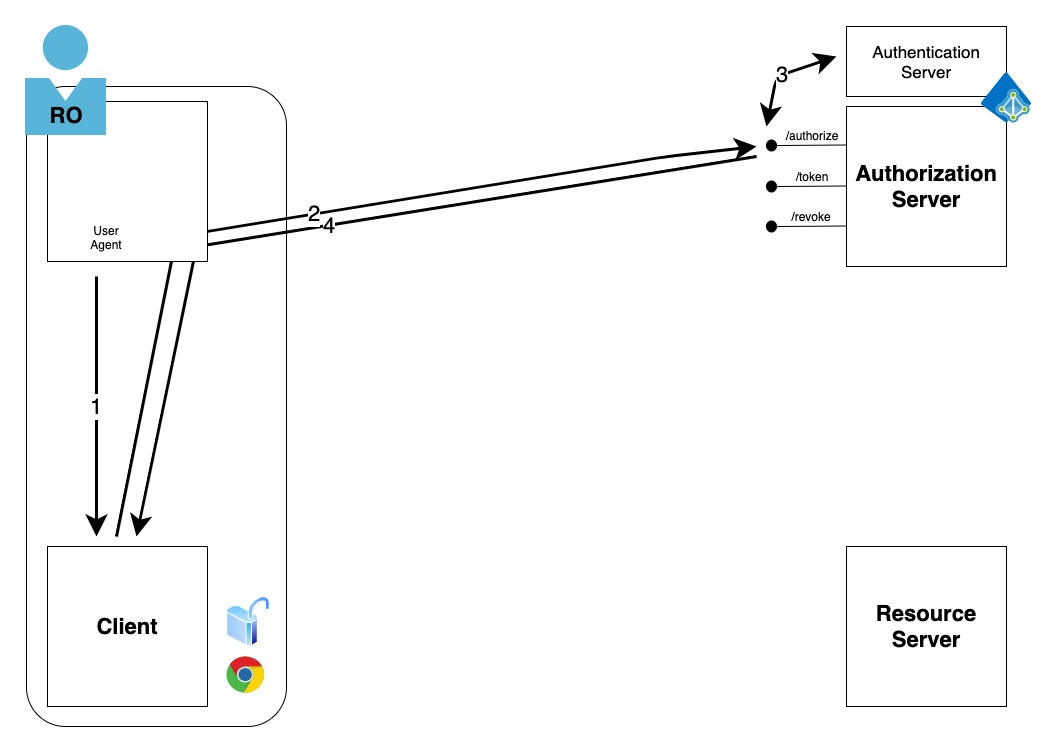
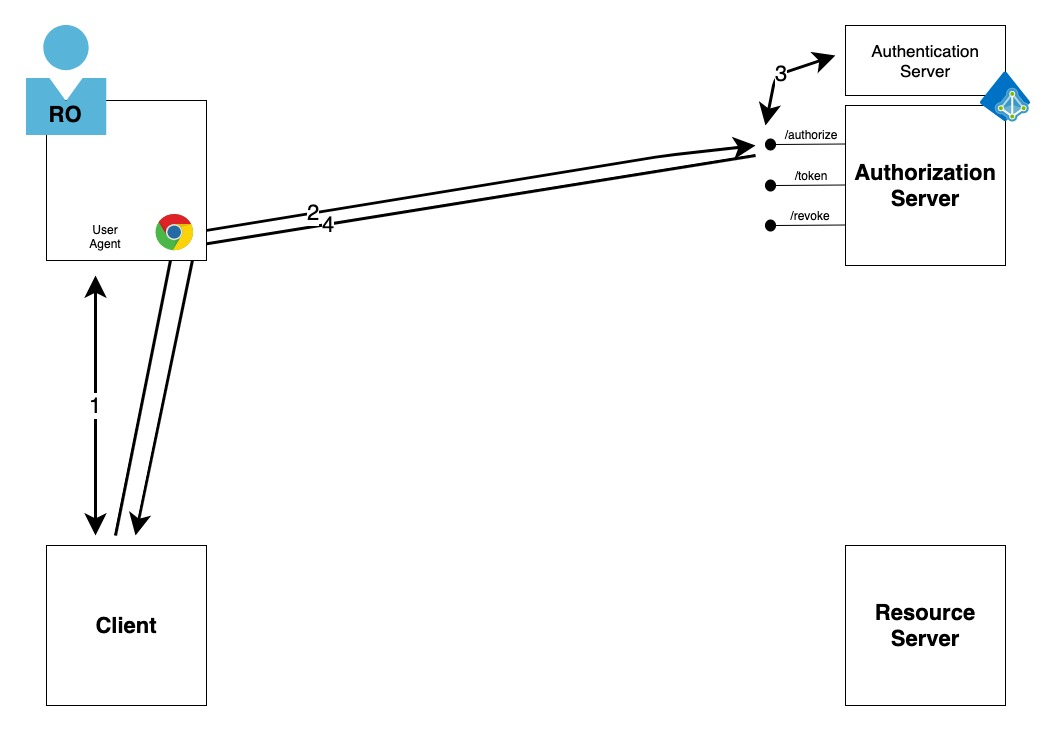
Various updates after testrun 1

diff --git a/docs/index.html b/docs/index.html
@@ -62,7 +62,7 @@
 
 					<section>
 						<h3>Workshop objectives </h3>
-						<blockquote>De-mystify, build confidence and prepare for further exploration of A&A</blockquote>
+						<blockquote style="color:dodgerblue">De-mystify, build confidence and prepare for further exploration of A&A</blockquote>
 						<ul style="font-size: 80%;">
 							<li>Give an introduction to basics modern web A&A</li>
 							<li>Introduce protocols, grants & flows</li>
@@ -151,7 +151,7 @@
 							</small>
 						</section>
 						<section>
-							<h3>Run-time environments - known differences</h3>
+							<h3>Run-time environments -</br> known differences</h3>
 							<ul>
 								<li>Examples uses Unix path notation "./src". </br>In Windows this will be "src/</li>
 								<li>Scripts, like <span style="color: blue">npm start</span> uses Linux notation. Must be changed for Windows environments</li>
@@ -167,14 +167,17 @@
 			
 			<section>
 				<h1>The delegation problem</h1>
+				<small style="color:blue">Giving access to 3rd parties</small>
 			</section>
 
 			<section>
 				<h3>Old style A&A</h3>
+				<small>Impersonating</small><p></p>
 				<img src="./graphics/export/my_super_app_old.jpg" width="75%">
 			</section>
 			<section>
 				<h3>Old style A&A</h3>
+				<small>Impersonating</small>
 				<table>
 					<tr>
 						<td><img src="./graphics/export/my_super_app_old.jpg" ></td>
@@ -193,6 +196,7 @@
 
 			<section>
 				<h3>New Style A&A</h3>
+				<small>Delegating</small><p></p>
 				<img src="./graphics/export/my_super_app_new.jpg" width="75%">
 			</section>
 			<section>
@@ -206,7 +210,7 @@
 								<li>Access can be revoked</li>
 								<li>Access can be time limited</li>
 								<li>Access can be granular</li>
-								<li>Access is delegated from user to client</li>
+								<li>Access is delegated from resource owner to client</li>
 							</ul>
 						</td>
 					</tr>
@@ -229,8 +233,12 @@
 					</section>
 					<section>
 						<h3>oAuth2</h3>
-						<blockquote style="font-size: 80%">
-						The OAuth 2.0 authorization framework enables a third-party application to obtain limited access to an HTTP service, either on behalf of a resource owner by orchestrating an approval interaction between the resource owner and the HTTP service, or by allowing the third-party application to obtain access on its own behalf. </blockquote>
+						<blockquote style="font-size: 75%">
+						The OAuth 2.0 authorization framework enables a
+						</br> third-party application to obtain limited access to an HTTP service,
+						</br></br>either on behalf of a resource owner
+						</br>by orchestrating an approval interaction between the resource owner and the HTTP service
+						</br></br>or by allowing the third-party application to obtain access on its own behalf.</blockquote>
 						<small><a href="https://tools.ietf.org/html/rfc6749" target="_blank">oAuth2</a> is a <strong>delegation protocol</strong>, a means of giving someone who controls a resource the capability to delegate access to the resource on their behalf (without impersonating).</small>
 					</section>
 
@@ -248,7 +256,7 @@
 					</section>
 
 					<section style="font-size: 75%">
-						<h3>Actors</h3>
+						<h3>oAuth2 Roles/Actors</h3>
 						<p><div style="color:blue">resource owner</div>
 						An entity capable of granting access to a protected resource.
 						When the resource owner is a person, it is referred to as an
@@ -276,7 +284,7 @@
 					</section>
 					<section>
 						<h4><a href="https://tools.ietf.org/html/rfc6749#section-1.2"
-							target="_blank">Abstract protocol flow</a></h4>
+							target="_blank">Abstract protocol flow (rfc6749)</a></h4>
 						<pre>
 +--------+                               +---------------+
 |        |--(A)- Authorization Request ->|   Resource    |
@@ -302,8 +310,8 @@
 						<h4 style="text-align: left;">Abstract protocol flow</h4>
 						<pre style="font-size: 40%; text-align: left;">
 +-- <span style="color:red">Resource</span> --+ +-- <span style="color: blue;">Client</span> -- + +- <span style="color:bluegreen">Authorization</span> -+ +--<span style="color:violet"> Resource</span> --+
-+    Owner     + +             + +     Server      + +   Server    +
-+--------------+ +-------------+ +-----------------+ +---------------+
++    Owner     + +             + +     Server      + +   Server     +
++--------------+ +-------------+ +-----------------+ +--------------+
      -                   -                -                     -
      |  <span style="color:blue">(A)Client request</span>|                |                     |
      |      <span style="color:blue">Authorization</span>|                |                     |
@@ -338,9 +346,9 @@
 					</section>
 
 					<section>
-						<h3>What oAuth is and is not</h3>
+						<h2>A few nice-to-know What oAuth is and is not</h2>
 						<ul>
-							<li>Is not Defined outside HTTP</li>
+							<li>Is not defined outside HTTP</li>
 							<li>Is "requiring" TLS</li>
 							<li>Is not an authentication protocol</li>
 							<li>Is not processing authorization</li>
@@ -352,13 +360,14 @@
 					</section>
 
 					<section>
-						<h3>Obtaining authorization - the oauth Dance</h3>
-						<blockquote> To request an access token, the client obtains authorization from the resource owner.  The authorization is expressed in the form of an authorization grant, which the client uses to request the access token.  OAuth defines four grant types: <span style="color:red">authorization code, implicit, resource owner password credentials</span>, and <span style="color:red">client credentials</span>.  It also provides an extension mechanism for defining additional grant types.</blockquote>
+						<h3>Obtaining authorization - </br>the oauth Dance</h3>
+						<blockquote>To request an access token, the client obtains authorization from the resource owner.  The authorization is expressed in the form of an authorization grant, which the client uses to request the access token.  OAuth defines four grant types: <span style="color:red">authorization code, implicit, resource owner password credentials</span>, and <span style="color:red">client credentials</span>.  It also provides an extension mechanism for defining additional grant types.</blockquote>
 				</section>
 					
 				<section>
 					<h3><a href="https://tools.ietf.org/html/rfc6749#section-4.1"
 						target="_blank">Authorization Code Grant</a></h3>
+						<small><a href="https://tools.ietf.org/html/rfc6749#section-4.1" target="_blank">rfc6749 #4.1</a></small>
 					<pre style="font-size: 40%;">
 
 +----------+
@@ -402,7 +411,7 @@
 							<td><img src="./graphics/export/oauth_code_flow.jpg" ></td>
 							<td style=" vertical-align: top;">
 								<p>-1-</p>
-								User - via user agent - initiates
+								Client via user agent - initiates
 							</td>
 						</tr>
 					</table>
@@ -418,7 +427,7 @@
 									<span style="font-size: 70%;">
 									GET /authorize? </br>
 									client_id=client </br>
-									&scope=read </br>
+									&scope=(optional) </br>
 									&reponse_type=code </br>
 									&state=1234
 									&redirect_uri=
@@ -525,7 +534,7 @@
 						<ul>
 							<li><span style="color:red">Authorization endpoint:</span> used by client to get authorization from resource owner </li>
 							<li><span style="color:red">Token endpoint:</span> used by client to exchange authorization grant for an access token</li>
-							<li>There may be more based on actual implementation</li>
+							<li>There may be other endpoints based on actual implementation</li>
 					</section>
 					
 					<section>
@@ -542,15 +551,15 @@
 							<ul>
 								<li>Token type: How it can be used</li>
 								<ul>
-									<li>Use it as is</li>
-									<li>Use it, but prove that I own it</li>
+									<li>Use it as is (Access token)</li>
+									<li>Use it, but prove that I own it </br>(Proof Of Ownership, Refresh token)</li>
 								</ul>
 								<li>Token format: Encoding</li>
 								<ul>
 									<li>By value (token contains all values)</li>
 									<li>By reference (pointer to more information)</li>
 								</ul>
-								<li>Token purpose: Who is it for?</li>
+								<li>Token purpose: Who is it for?</br>(Client, Authorisation Server, Resource Server</li>
 							</ul>
 						</section>
 	
@@ -773,9 +782,7 @@
 					"Admin"
 				],
 				"sub": "..",
-				}.[Signature]
-			
-									</code> 
+				}.[Signature]</code> 
 									</pre>	
 								</section>
 	
@@ -793,12 +800,14 @@
 											<li>aud - audience - id for relying party</li>
 											<li>exp - expiration time stamp</li>
 										</ul>
-									<li>For the Azure implementation, more documentation on the <a href"https://docs.microsoft.com/en-us/azure/active-directory/develop/v2-protocols-oidc" target="_blank">Microsoft Identity Platform</a> doc pages</li>
+									<li>For the Azure implementation, more documentation on the <a href="https://docs.microsoft.com/en-us/azure/active-directory/develop/v2-protocols-oidc" target="_blank">Microsoft Identity Platform</a> doc pages.
+									Explore attributes such as "prompt", "login_hint", "response_mode"</li>
 								</ul>
 							</section>
 		
 					<section>
 						<h4>oAuth Implicit Grant</h4>
+						<small><a href="https://tools.ietf.org/html/rfc6749#section-4.2" target="_blank">rfc6749 #4.2</a></small>
 						<pre style="font-size: 40%;">
 +----------+
 | Resource |
@@ -847,8 +856,8 @@ Client lives inside browser (user agent)
 										<span style="font-size: 70%;">
 										GET /authorize? </br>
 										client_id=client </br>
-										&scope=read</br>
-										&reponse_type=<span style="color:red">token+id_token</span></br>
+										&scope=<span style="color:red">openid</span></br>
+										&reponse_type=<span style="color:red">id_token</span>+token</br>
 										&state=1234</br>
 										&<span style="color:red">nonce=a_nonce</span></br>
 										&<span style="color:red">redirect_uri=</span></br>
@@ -903,7 +912,7 @@ Client lives inside browser (user agent)
 							<li>The process for a protected resource to query the authorization server to verify validity of a oAuth2 token</li>
 							<li>An extension to oAuth2 defined in <a href="https://tools.ietf.org/html/rfc7662"
 							target="_blank">rfc7662</a></li>
-							<li>Getting Opaque tokens (by ref) and querying for "details"</li>
+							<li>Getting tokens type by ref and querying for "details"</li>
 							<li>Not currently supported by Azure AD
 							<a href="https://feedback.azure.com/forums/169401-azure-active-directory/suggestions/18930289-introspection-endpoint-for-azure-active-directory"
 							target="_blank">(Improvement request)</a>	
@@ -918,7 +927,10 @@ Client lives inside browser (user agent)
 								Typically service to service in protected environment
 
 							</li>
-							<li>Resource Owner Password Credentials</li>
+							<li>Resource Owner Password Credentials</br>
+								High trust envionments where the resource owner trusts it's credentials to the client
+
+							</li>
 						</ul>
 					</section>
 
@@ -1560,16 +1572,16 @@ Client lives inside browser (user agent)
 
 							<section>
 								<h3>Scenario 1:</br> Only people with valid account should have access</h3>
-								<ul>
+								<ul style="font-size: 80%;">
 									<li><span style="color:blue">App Registration (object)</span> vs. <span style="color:blue">Enterprise Application (instance, multi-tentant)</span></li>
 									<li>In "Enterprise Applications" (Azure AD) explore the property section for your application</li>
 									<ul>
 										<li>"Enables for users to sign-in?"</li>
 										<li>"User assignment required?"</br>(User must be assigned to be able to sign in)</li>
 									</ul>
+									<li><span style="color:blue">Sign-in enabled</span> and <span style="color:blue">no user assignment required = available to everyone with valid user account in tenant</li>
 								</ul>
-								<li><span style="color:blue">Sign-in enabled</span> and <span style="color:blue">no user assignment required = available to everyone with valid user account in tenant</li>
-							</section>
+								</section>
 
 							<section>
 									<h3>Scenario 2:</br> Only defined users/groups should have access</<br></h3>
@@ -1657,7 +1669,7 @@ Client lives inside browser (user agent)
 
 							<section>
 								<h3>What are refresh tokens?</h3>
-								<ul>
+								<ul style="font-size: 90%;">
 									<li><a href="https://tools.ietf.org/html/rfc6749#section-1.5"
 										target="_blank">rfc6749 section 1.5</a></li>
 									<li>"Refresh tokens are credentials used to obtain access tokens."</li>
@@ -1676,9 +1688,9 @@ Client lives inside browser (user agent)
 								<ul>
 									<li>Framework support for automatic handling of refresh tokens is varying</li>
 									<li>Verify support in each framework</li>
-									<li><a href="https://docs.microsoft.com/nb-no/azure/active-directory/develop/msal-authentication-flows"
+									<li><a href="https://docs.microsoft.com/nb-no/azure/active-directory/develop/msal-authentication-flows#how-each-flow-emits-tokens-and-codes"
 										target="_blank">Flows</a> that emits refresh tokens in Azure</li>
-									<li>Single Page Web applications using MSAL.JS usually login-and-get-new tokens silently to the user</li>
+									<li>Single Page Web applications using MSAL.JS usually do a silent login-and-get-new tokens to the user due to no refresh token</li>
 									<li>Passport.js (that we use does not have native support for refresh tokens. so lets add it :) )
 									</ul>
 							</section>
@@ -1708,7 +1720,7 @@ Client lives inside browser (user agent)
 											</ul>
 											<li style="color:blue">src/authutils.js</li>
 											<ul>
-												<li>"considerRefres" function which does the magic</li>
+												<li>"considerRefresh" function which does the magic</li>
 												<li>We refresh based on time (in seconds) before expire</li>
 												<li>We could also react to the 401 issued by Azure AD when we try to use and expired access token </li>
 												<li>(It's worth knowing that java script stores time in milliseconds while it's seconds int the tokens)</li>
@@ -1868,7 +1880,7 @@ Client lives inside browser (user agent)
 
 							<section>
 								<h3>Adding Azure AD application object for API</h3>
-								<ul>
+								<ul style="font-size: 90%;">
 									<li>Follow procedure in <a href="#/7/2" target="_blank">earlier exercise</a> to register API </li>
 									<li>Activate "Application developer role" in "Privileged Identiy Management"</li>
 									<li><span style="color:red">Name</span>: (inital)-(aa-api) or something else</li>
@@ -1887,7 +1899,7 @@ Client lives inside browser (user agent)
 
 							<section>
 								<h3>Explore and config the SPA code</h3>
-								<ul>
+								<ul style="font-size: 90%;">
 									<li>Navigate to the <span style="color: blue">./ex-10/spa</span> directory</li>
 									<li>Install dependencies <code class="hljs">$ npm install</code></li>
 									<li>Update config in "JavaScriptSPA/index.html</li>	
@@ -1907,7 +1919,7 @@ Client lives inside browser (user agent)
 
 							<section>
 									<h3>Explore and config the API code</h3>
-									<ul style="font-size:80%">
+									<ul style="font-size:70%">
 										<li>Navigate to the <span style="color: blue">./ex-10/api</span> directory</li>
 										<li>Install dependencies <code class="hljs">$ npm install</code></li>
 										<li>Update config in "bin/www (the port if needed)</li>	
